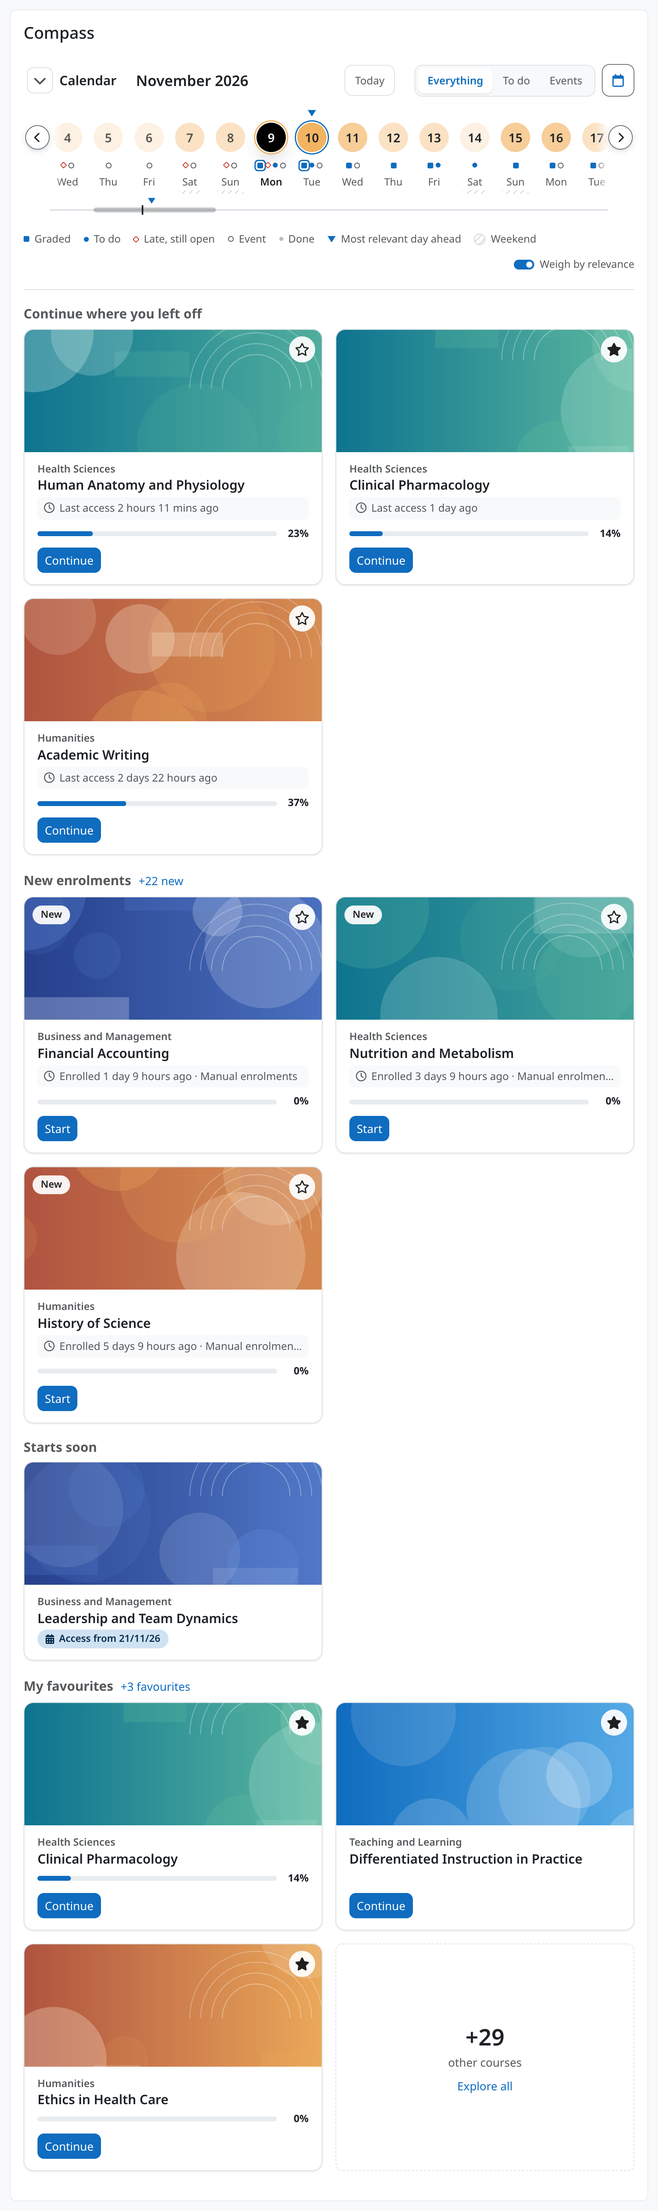
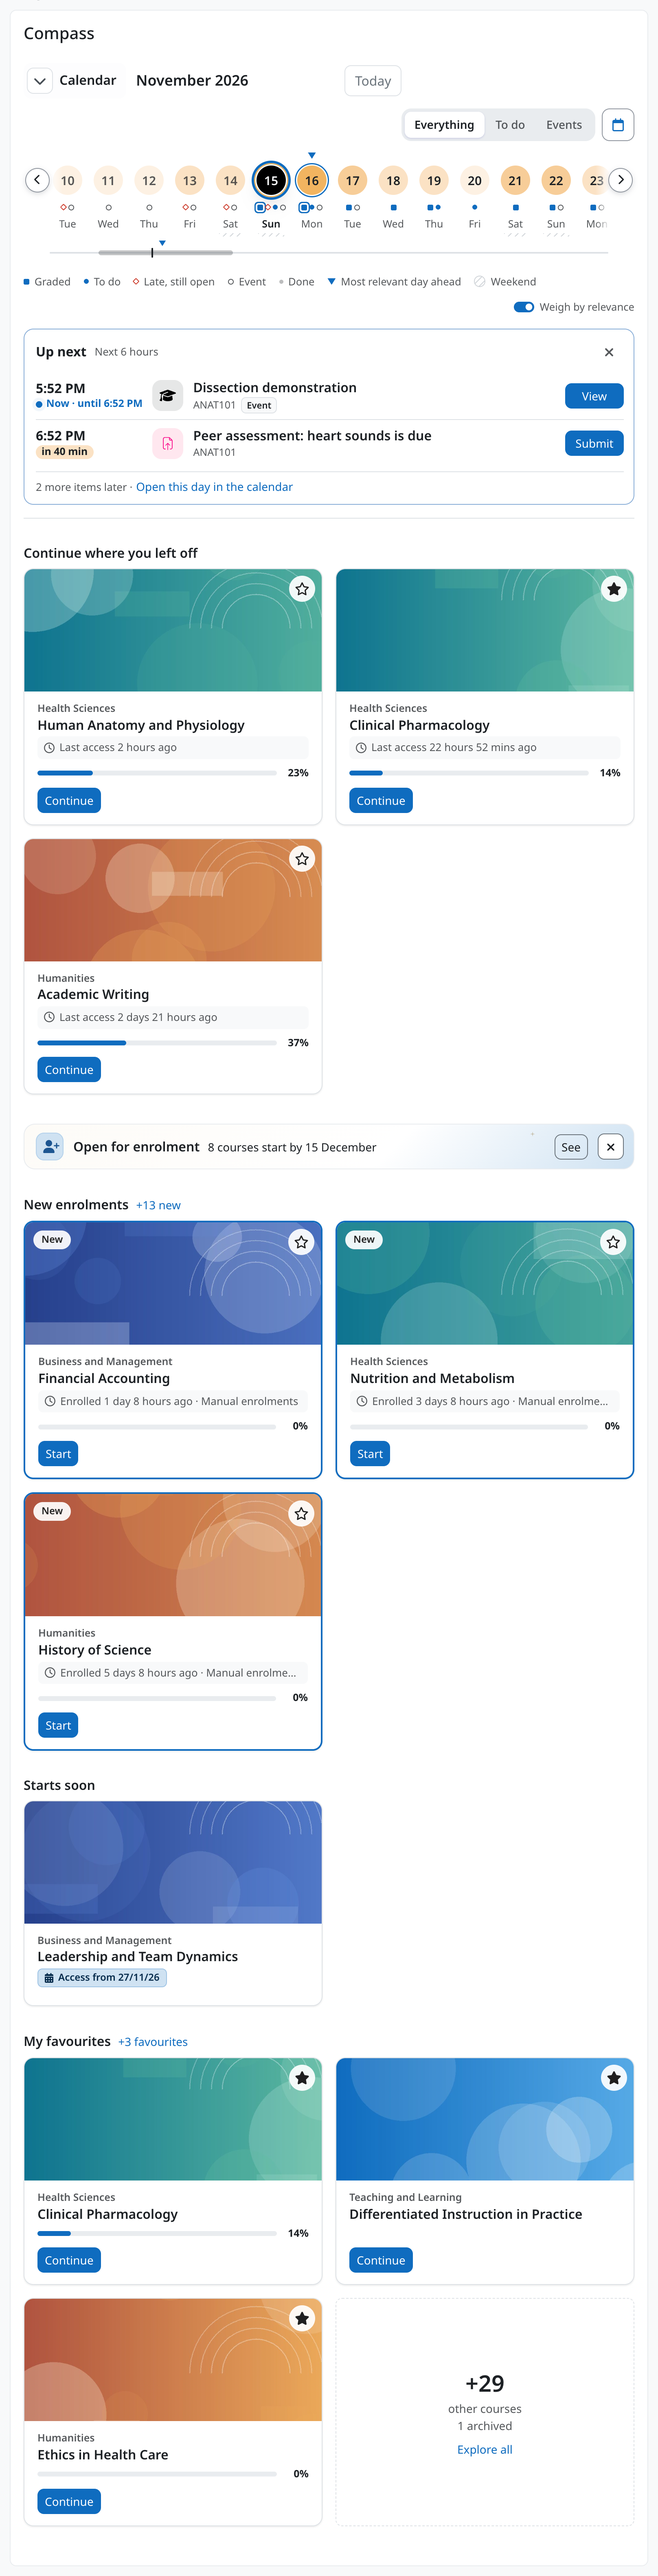
Docs: the README's screenshots show the bar as it is, 5.2 [skip ci]
Port of 7dfea38 to Moodle 5.2, in part. The sixteen pictures this branch
shares with main (the tier 3 shots, the Dashboard, the page, the open-courses
line and the calendar's dark, day card, dim, pulse card and teaching shots)
take main's retakes and their captions; capture.mjs and tools/README.md take
the new steps with this branch's stack (m502b, localhost:9502) and its
teaching-line rule (the shot is written only with the To grade cell).

Left out: the eight pictures this branch took on 5.2 itself
(calendar-line-teaching, calendar-line, calendar-pulse, calendar-soon,
calendar-strip, calendar-styles, mobile, settings) and the captions of
calendar-strip and settings. Main's retakes come from m503, which has no
block_feedback_tracker: its teaching line has no To grade cell, which this
branch's README describes and shows. They predate the Design System's
calendar segment and status labels and want a retake on m502b.

No code; no test run.

(cherry picked from commit 7dfea389058e16a2ef21e3cbc71e9c9c6367f6c0)

diff --git a/README.md b/README.md
@@ -7,7 +7,7 @@ Compass (block_compass)
 My courses by relevance, in three tiers, with a calendar strip above them. Built for very
 large sites.
 
-![The Compass block on a Dashboard: strips of course cards and the ghost card counting the remaining courses](docs/screenshots/dashboard.png)
+![The Compass block on a Dashboard: the open calendar strip and Up next above strips of course cards, the open-for-enrolment line between them, and the ghost card counting the remaining courses and the one archived](docs/screenshots/dashboard.png)
 
 The standard Course overview block sorts courses by time: start and end dates. On sites where
 most courses have no end date and no completion rule, that turns into one long "in progress"
@@ -24,7 +24,7 @@ what I was doing, what just arrived, what I marked as mine, and what is due.
   the user a way to enrol now, and never one where the user already holds an enrolment of any
   status or a role.
 
-  ![The open-for-enrolment line: a title, how many courses start by a date, the categories as links with their counts and a button that hides the line](docs/screenshots/open-courses.png)
+  ![The open-for-enrolment line on a busy day, one sentence (8 courses start by 15 December) with See and a hide button, and the list See opens: the categories as links with their counts, a category of one naming its course, a link to every open course and Hide](docs/screenshots/open-courses.png)
 - **Tier 1, attention.** Full cards (image, progress, button) in four strips: *Continue where
   you left off*, *New enrolments*, *Starts soon* and *My favourites*. A strip that overflows
   says so in its heading ("+4 new").
@@ -104,7 +104,7 @@ the cards always paint first.
   events, and grading shows once it is open. The switch is two icons (Studying, Teaching) where
   the header is narrow.
 
-  ![The Teaching view of the strip, open: days carrying grading work, and a day card with the submissions waiting to be graded and the Grade button](docs/screenshots/calendar-teaching.png)
+  ![The Teaching view of the strip, open: the Studying and Teaching switch, days carrying grading work, and today's card pinned with six submissions waiting to be graded and the Grade button](docs/screenshots/calendar-teaching.png)
 
   ![The teaching line, closed: the To grade cell, a divider, then Overdue, Today, Tomorrow, Week and Later](docs/screenshots/calendar-line-teaching.png)
 
@@ -139,7 +139,7 @@ the cards always paint first.
 All courses and the Compass page
 --------------------------------
 
-![All courses on the Compass page: the filter line on one row (the scope with its counts, the result count, the star, Filters, Organise and the list/cards menu, and the search icon), the category index and the first group open as cards](docs/screenshots/explore.png)
+![All courses on the Compass page: the filter bar on one row (the scope with its counts, the result count, the star, Filters, Organise and the list/cards menu, and the search icon), the category index with the open group's link tinted and Archived last, and the first group open as a list](docs/screenshots/explore.png)
 
 *All courses* opens from the ghost card or from a strip's "+N" link. The ghost is there whenever
 *All courses* has something tier 1 does not show, its *Hidden* and *Archived* groups included: a
@@ -169,9 +169,9 @@ each with a cross to remove it, and *Clear all* from two chips up; a search left
 its field has closed shows as a chip too. The scope and the star stay on the bar and need no
 chip.
 
-![The Filters popover open under the line: the Modality field with Online, In-person and Hybrid and their counts, Clear filters and Show 14](docs/screenshots/explore-filters.png)
+![The Filters panel open under the bar with Hybrid chosen: each field's label above its values with their counts (Modality: Online, In-person, Hybrid; Level: Intermediate, Advanced), Clear filters and Show 4; Filters carries a badge of 1 and the Hybrid chip sits under the bar](docs/screenshots/explore-filters.png)
 
-![The Organise menu open under the line: Group by, with Category and No grouping, then Sort by, with Name and Most recent](docs/screenshots/explore-organise.png)
+![The Organise menu open under the bar: Group by, with Category and No grouping, then Sort by, with Name and Most recent, the chosen one of each ticked](docs/screenshots/explore-organise.png)
 
 The search suggests as you type, in one list under the line: first the **filters** (a scope,
 the star, a field's value) whose name or field matches the text, each with the number of courses
@@ -180,21 +180,21 @@ a filter applies it and empties the field for the next one; choosing a course op
 fewer than two characters typed, the list offers up to five filters, the largest first, under
 *Start with a filter*. The arrow keys walk the list, Enter chooses and Escape closes it.
 
-![The search grown over the Dashboard's line with "on" typed: under Filters, Online (9) and In-person (2) of the Modality field; under Courses, Nutrition and Metabolism, Introduction to Philosophy and Data Analysis with Python, the matched letters marked](docs/screenshots/explore-search.png)
+![The search opened in place at the bar's end with "on" typed, the scope's counts following it: under Filters, Online (12) and In-person (1) of the Modality field; under Courses, Facilitating Online Discussions, Creating Digital Content, Differentiated Instruction in Practice, Instructional Coaching Cycles and Instructional Leadership Foundations, the matched letters marked](docs/screenshots/explore-search.png)
 
 **The bar folds to the width of the block, not of the screen**, in two steps measured on the bar
 itself: everything on one row (the Compass page on a desktop); or, where that does not fit, the
-scope on a line of its own under the controls, its choices sharing the width (a tablet, a phone,
-the block drawer). There, while the search is open, its field takes the first line. The chips
+scope on a line of its own under the controls, its choices sharing the width (a phone, the block
+drawer, a narrow column). There, while the search is open, its field takes the first line. The chips
 wrap to further lines rather than scrolling.
 
-![All courses on the Dashboard, the line with one filter in force: only All with its count of one, the star, Filters with a badge of 1, Organise, View and the search icon; under it the chips health and Hybrid with Clear all, and the one course left](docs/screenshots/explore-filtered.png)
+![All courses on the Dashboard, a search and a filter in force: only All with its count of 3, the result count, the star, Filters with a badge of 1, Organise, View and the search icon; under it the chips instruction and Hybrid with Clear all, and the three courses left](docs/screenshots/explore-filtered.png)
 
-![All courses on the Dashboard at a tablet's width, the narrow step: the star, Filters, Organise, View and the search icon on the first line, the scope on a line of its own after them](docs/screenshots/explore-narrow.png)
+![All courses on the Dashboard at 500 px, the narrow step: the result count, the star, Filters, Organise, View and the search icon on the first line, the scope on a line of its own after them](docs/screenshots/explore-narrow.png)
 
 At the narrow step the Filters panel opens as a bottom sheet:
 
-![All courses on a phone with Filters pressed: the panel as a bottom sheet with the Modality values, Clear filters and Show 38](docs/screenshots/explore-phone.png)
+![All courses on a phone with Filters pressed: the panel as a bottom sheet with the Modality and Level values, Clear filters and Show 38](docs/screenshots/explore-phone.png)
 
 **Pointing at a filter previews it.** A mouse or a pen on a scope, the star, a panel value or a
 suggestion, or the keyboard's focus on one, rings the courses on screen that it would keep,
@@ -225,7 +225,7 @@ counted before a group's rows arrive. The server is asked for one scope at a tim
 while the star is pressed) and the browser narrows the rows it holds by the rest; the course
 suggestions are the server's search hits. Nothing is configured per learner.
 
-![The Compass page: the block's content alone under the theme's navigation bar](docs/screenshots/page.png)
+![The Compass page: the block's content alone, from the calendar strip and Up next through the strips of course cards to the ghost card](docs/screenshots/page.png)
 
 With `enable_page` on, `/blocks/compass/index.php` shows the block's content alone, on the
 theme's page without block regions. While it is on, "Compass" is offered under *Site

diff --git a/docs/screenshots/tools/README.md b/docs/screenshots/tools/README.md
@@ -47,28 +47,38 @@ docker exec m502b-webserver-1 php $T/holidays.php --add      # if holidays-state
 #   {"demo.student": "MoodleSession502b=...", "demo.teacher": "...", "admin": "..."}
 COMPASS_SESSIONS=/path/sessions.json node capture.mjs        # every shot but ring and pulse
 # calendar_style=ring: node capture.mjs ring; calendar_style=pulse: node capture.mjs pulse (also calendar-pulse.png and calendar-pulse-card.png);
-# calendar_style back to dots
+# calendar_style back to dots. The setting, from the host:
+#   docker exec m502b-webserver-1 php /var/www/html/admin/cli/cfg.php --component=block_compass --name=calendar_style --set=ring
 python3 finish.py
 ```
 
 Each shot puts the strip in the state it needs (open or closed) by pressing the heading's toggle,
 which writes the user's `block_compass_calendar` preference, and waits for that state's data: the
 open row's days, or the closed line's counts. Note each demo user's `open` value before a run and
-restore it afterwards. The shots are `dashboard`, `strip` (open, student), `card`, `teaching`
-(open, a day with submissions to grade pinned), `line` (closed, student), `news` (closed strip, student: `open-courses.png`, the open-for-enrolment line, the compact
-sentence with its list open on a busy day), `lineteaching` (closed,
+restore it afterwards, with the `block_compass_explore` and `block_compass_tier1` preferences the
+pages write as they settle (a user who had none gets one: delete it). Up next sits inside the strip's
+section and has its own shot (`soon`), so `strip`, `line`, `lineteaching`, `ring` and `pulse` stop
+above it when it shows. Every shot takes the pointer off the page and waits for no tooltip and no
+transition before it captures. The shots are `dashboard`, `strip` (open, student), `card`, `teaching`
+(open, a day with submissions to grade pinned), `line` (closed, student), `soon` (Up next under the closed line), `news` (closed strip, student: `open-courses.png`, the open-for-enrolment line; the full line only on a calm day, else the compact sentence with the list its See opens, and the shot prints which), `lineteaching` (closed,
 teacher; written only when the *To grade* cell is there, which needs the feedback_tracker ledger to
-cover his courses), `dim` (a tier 1 card hovered, the other days dimmed), `dark`, the tier 3 shots,
-`page`, `mobile` and `settings`, plus `ring` and `pulse`.
+cover his courses), `dim` (a tier 1 card hovered, the other days dimmed), `dark`, the tier 3 shots, `page`,
+`mobile` and `settings` (the calendar section, down to its last setting before the next heading),
+plus `ring` and `pulse`.
 
-The tier 3 shots open *All courses* from the ghost and leave the strip as it is: `explore` (the
-filter line at rest on the Compass page, one row), `filtered` (the Dashboard's folded line with a
-field value and a search in force: two chips and Clear all), `search` (the search grown over the
-Dashboard's line, its suggestions open), `filters` and `organise` (the panel and the menu on the
-Compass page), `preview` (the mouse on the New scope, the open group ringed and dimmed), `phone`
-(a phone, the panel as a bottom sheet) and `narrow` (the Dashboard at 768 px, the line on two
-lines). `filtered` releases what it pressed through *Clear filters* and every shot closes what it
-opened, so `block_compass_explore` ends as it started; check it after a run all the same.
+The tier 3 shots open *All courses* from the ghost, close the Filters panel when the user's
+remembered state has it open, and leave the strip as it is: `explore` (the bar at rest on the
+Compass page, on one row, the category index with the open group's link tinted and *Archived*
+last), `filtered` (the Dashboard, Hybrid chosen in the panel and a search left in force by Escape:
+two chips and Clear all), `search` (the search opened in place at the bar's end, its suggestions
+open), `filters` (the panel on the Compass page, each field's label above its values, Hybrid
+chosen so the chosen state shows), `organise` (the menu on the Compass page, its Group by and Sort
+by sections), `preview` (the mouse on the New scope, the open group ringed and dimmed), `phone` (a
+phone, the panel as a bottom sheet) and `narrow` (the Dashboard at 500 px, the narrow step: the
+scope on a line of its own after the controls; a tablet's 768 px still draws the bar full, and the
+shot fails if the bar is not at its narrow step). `filtered`, `search` and `filters` release what
+they pressed through *Clear filters* and every shot closes what it opened; the panel's remembered
+state still changes, so put `block_compass_explore` back after a run.
 
 Node 22 or later (global `WebSocket`), Google Chrome at its macOS path or `CHROME_BIN`. The card
 opens on tomorrow, the richest day of the seeded data. The texts that depend on the clock ("Last
